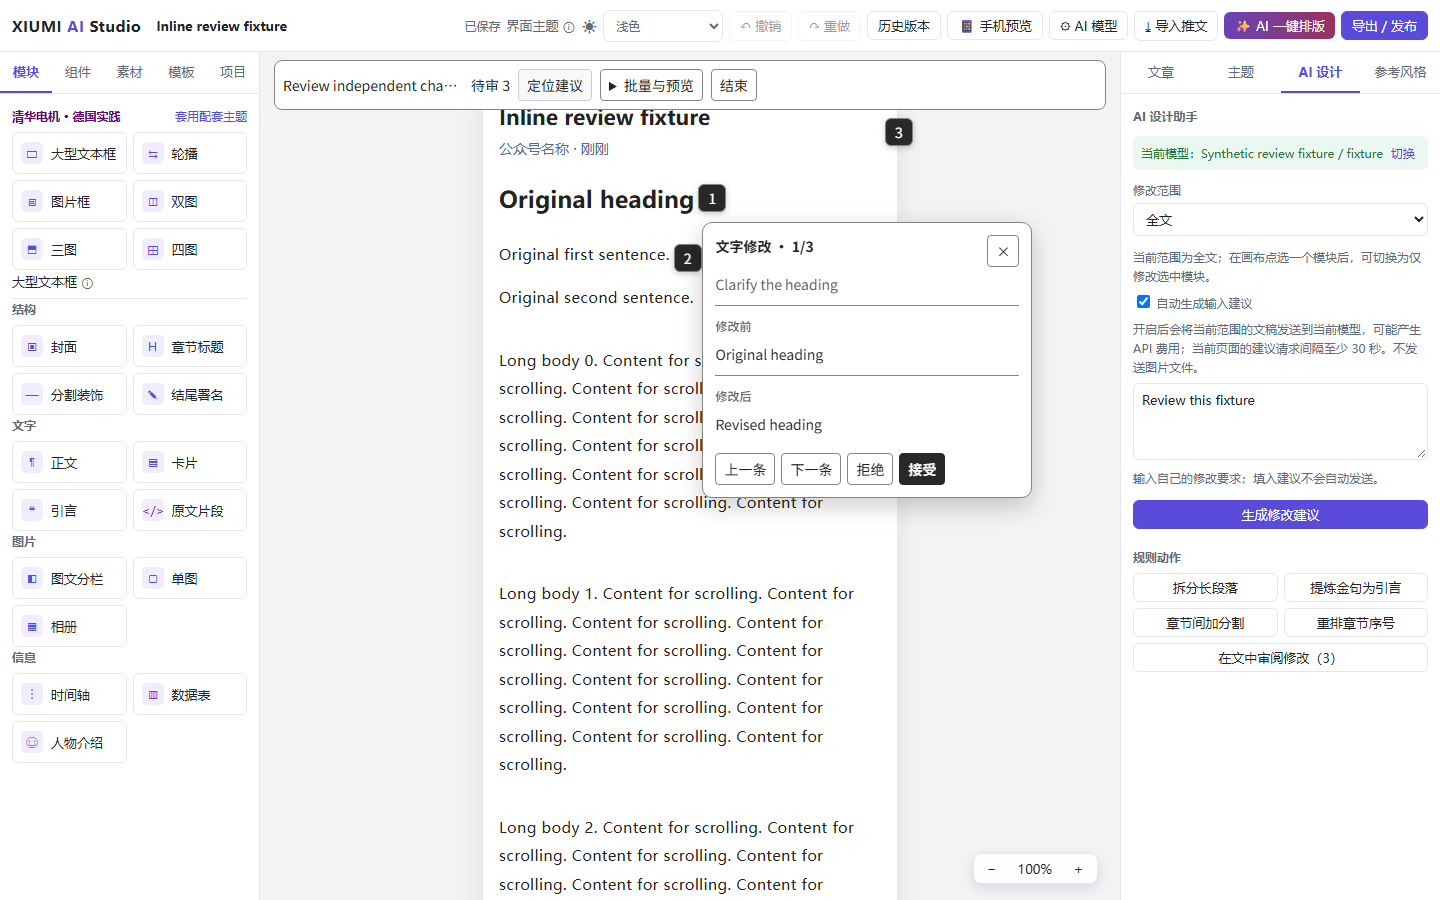
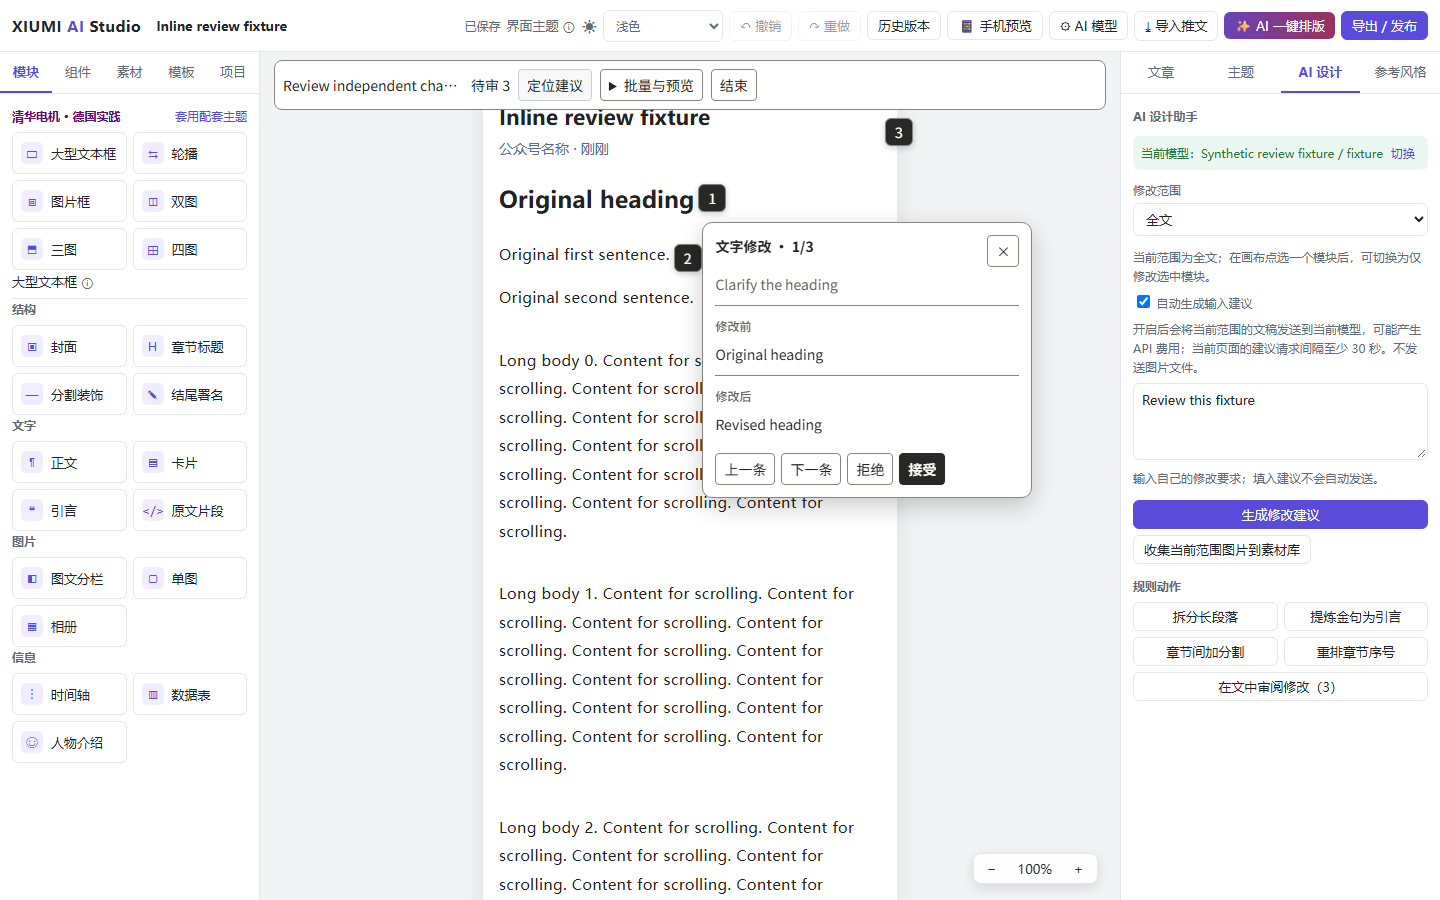
test: verify image import preserves inline review

Changed region(s): [[0.7812, 0.5911, 1.0, 0.7778]]

diff --git a/tests/e2e/inline-review.spec.ts b/tests/e2e/inline-review.spec.ts
@@ -173,3 +173,25 @@ for(const v of [{name:'desktop',width:1440,height:900},{name:'phone',width:390,h
  await expect(page.getByTestId('review-bubble')).toContainText('共创实验')
  await page.screenshot({path:`visual-evidence/inline-review/chinese-${v.name}.png`})
 })
+test('article image import preserves an existing inline review and its acceptance safeguards', async ({page}) => {
+  const imageUrl='https://mmbiz.qpic.cn/inline-review-integration'
+  await page.route(imageUrl, route=>route.fulfill({status:204,body:''}))
+  let imported=0
+  await page.route('**/api/assets/import-article',route=>{imported++;return route.fulfill({json:[{url:imageUrl,status:'imported'}]})})
+  const {original}=await setup(page,1440,900,'dark',{html:source+`<img src="${imageUrl}" alt="fixture">`})
+  await page.getByTestId('review-open').click()
+  await expect(page.getByTestId('review-bubble')).toBeVisible()
+  await page.getByTestId('collect-article-images').click()
+  const dialog=page.getByRole('dialog',{name:'收集文中图片'})
+  await expect(dialog).toBeVisible()
+  await dialog.getByRole('button',{name:'确认加入素材库'}).click()
+  await expect(dialog.getByRole('status')).toContainText('新增 1 张')
+  expect(imported).toBe(1)
+  await page.keyboard.press('Escape')
+  await expect(dialog).toHaveCount(0)
+  await expect(page.getByTestId('review-bubble')).toBeVisible()
+  expect(await page.getByTestId('canvas').innerHTML()).toBe(original)
+  await page.getByTestId('accept-review').click()
+  await expect(page.locator('[data-block-id="review-html"]')).toContainText('Revised heading')
+  await expect(page.locator('[data-block-id="review-html"] img')).toHaveAttribute('src',imageUrl)
+})

diff --git a/docs/qa/inline-ai-review.md b/docs/qa/inline-ai-review.md
@@ -22,3 +22,8 @@
 - 已标记过期的项不能单条拒绝，可结束本轮审阅；未把过期误记为用户拒绝。
 - 真实手机硬件、Safari/Firefox 和屏幕阅读器人工验收未完成。
 - 没有创建新的整合 PR，也没有替换生产部署。
+## 素材入库整合追加验证
+- 已整合独立修复 ae2669f 为 b1833cf，唯一 RightPanel 冲突保留了素材命令分流及 AI 防重复/迟到响应/文稿引用保护。
+- 整合源码 lint、TypeScript、468 项单测、构建及 101/101 全量固定基线 E2E 通过（4.6 分钟）。随后新增一项共存测试单独通过：气泡存在时打开入库弹窗，确认入库、Escape 关弹窗，审阅仍保留，原文不变，之后接受建议成功且图片保留。
+- 5176 隔离预览已重启新后端，空 URL 批次返回 []；没有外网图片下载，也未改生产 5174。
+- 外网微信/秀米 CDN 的真实下载仍未验证；白名单、安全重定向和真实本地素材识别有测试覆盖，不能等同外网实测通过。
